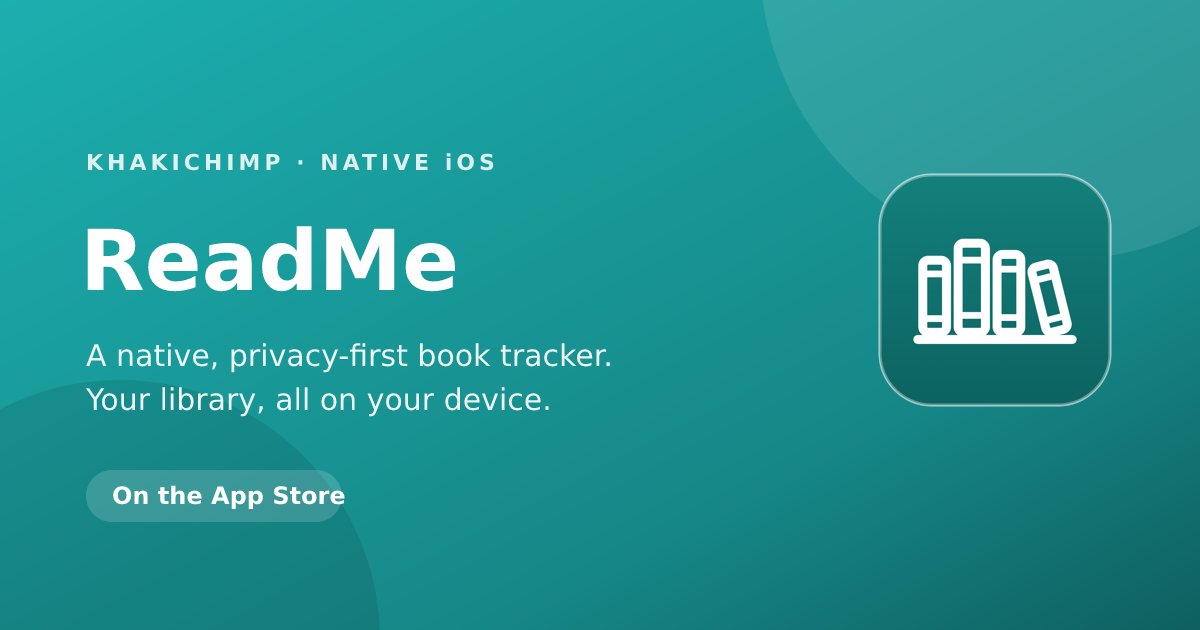
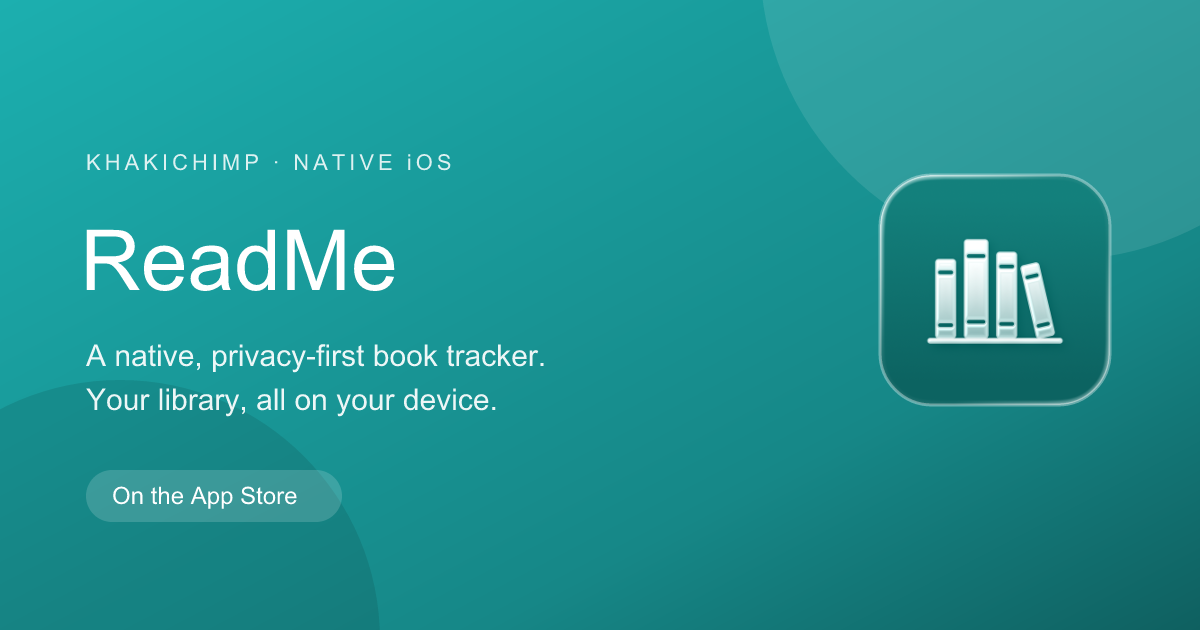
Refocus Khakichimp HQ on the apps and how they're shipped
The ReadMe icon (Khakichimp listing, ReadMe favicon and share card) now
matches the iOS 26 icon on the App Store.

The feed-the-chimp game is gone: no corner meter, no button in the
privacy card, no goal or level toasts. Poking the chimp in the hero
still throws bananas.

"Under the hood" described how this website was coded. It is replaced
by "Built and shipped solo", on designing, building and releasing each
app with AI coding tools, with current version numbers. The "Built the
Apple way" copy and the tech pills now match the three Swift repos.
The hero button reads "How I build them" and em dashes are hyphens.

diff --git a/khakichimp/index.html b/khakichimp/index.html
@@ -5,20 +5,20 @@
 <meta name="viewport" content="width=device-width, initial-scale=1.0">
 <meta name="theme-color" content="#0b1410">
 <title>Khakichimp HQ · Native, privacy-first iOS apps</title>
-<meta name="description" content="Khakichimp HQ — native, privacy-first iOS apps built by Josh Engels. Tasks - Uniflow, ReadMe, and Food in Five. No trackers, ever.">
+<meta name="description" content="Khakichimp HQ - native, privacy-first iOS apps built by Josh Engels. Tasks - Uniflow, ReadMe, and Food in Five. No trackers, ever.">
 <link rel="icon" href="/assets/favicon.svg" type="image/svg+xml">
 <link rel="apple-touch-icon" href="/assets/apple-touch-icon.png">
 <link rel="canonical" href="https://jengels34.github.io/khakichimp/">
 <meta property="og:type" content="website">
 <meta property="og:title" content="Khakichimp HQ · Native, privacy-first iOS apps">
-<meta property="og:description" content="Tasks - Uniflow, ReadMe, and Food in Five — native iOS apps with no trackers, ever. Built by Josh Engels.">
+<meta property="og:description" content="Tasks - Uniflow, ReadMe, and Food in Five - native iOS apps with no trackers, ever. Built by Josh Engels.">
 <meta property="og:url" content="https://jengels34.github.io/khakichimp/">
 <meta property="og:image" content="https://jengels34.github.io/assets/og-khakichimp.png">
 <meta property="og:image:width" content="1200">
 <meta property="og:image:height" content="630">
 <meta name="twitter:card" content="summary_large_image">
 <meta name="twitter:title" content="Khakichimp HQ · Native, privacy-first iOS apps">
-<meta name="twitter:description" content="Tasks - Uniflow, ReadMe, and Food in Five — native iOS apps with no trackers, ever. Built by Josh Engels.">
+<meta name="twitter:description" content="Tasks - Uniflow, ReadMe, and Food in Five - native iOS apps with no trackers, ever. Built by Josh Engels.">
 <meta name="twitter:image" content="https://jengels34.github.io/assets/og-khakichimp.png">
 <script>document.documentElement.classList.add('js')</script>
 <style>
@@ -84,7 +84,7 @@
     @keyframes aura{0%,100%{opacity:.55;transform:translate(-50%,-50%) scale(1)}50%{opacity:1;transform:translate(-50%,-50%) scale(1.07)}}
     .chimp-stage svg,.chimp-stage img{position:relative;z-index:1;width:100%;height:auto;display:block;filter:drop-shadow(0 22px 26px rgba(0,0,0,.45));will-change:transform}
     .chimp-hint{font-size:.8em;opacity:.6;letter-spacing:.04em;text-transform:uppercase;margin-top:-4px}
-    /* the mascot is injected and animated by JS — hide the stage and its hint for no-JS visitors */
+    /* the mascot is injected and animated by JS - hide the stage and its hint for no-JS visitors */
     .chimp-stage,.chimp-hint{display:none}
     html.js .chimp-stage{display:block}
     html.js .chimp-hint{display:block}
@@ -120,22 +120,6 @@
     .hero-apps img{width:58px;height:58px;border-radius:15px;display:block;
         box-shadow:0 10px 22px rgba(0,0,0,.4);border:1px solid rgba(243,251,243,.14)}
 
-    /* live banana counter chip */
-    .banana-meter{
-        position:fixed;right:16px;bottom:16px;z-index:40;display:flex;align-items:center;gap:8px;
-        background:rgba(11,20,16,.82);backdrop-filter:blur(8px);border:1px solid rgba(166,242,74,.4);
-        color:var(--cream);padding:9px 14px;border-radius:999px;font-weight:700;font-size:.9em;
-        box-shadow:0 10px 24px rgba(0,0,0,.34);cursor:pointer;transition:transform .2s;user-select:none;font:inherit;
-    }
-    .banana-meter:hover{transform:translateY(-2px)}
-    .banana-meter .lbl{opacity:.9;font-weight:600}
-    .banana-meter .track{width:52px;height:6px;border-radius:3px;background:rgba(243,251,243,.2);overflow:hidden;display:inline-block}
-    .banana-meter .fill{display:block;height:100%;width:0;background:linear-gradient(90deg,var(--banana),var(--lime));border-radius:3px;transition:width .25s}
-    .banana-meter .n{color:var(--banana);font-variant-numeric:tabular-nums}
-    .banana-toast{position:fixed;left:50%;top:20%;transform:translate(-50%,-10px);z-index:56;max-width:90vw;
-        background:rgba(11,20,16,.94);border:1px solid rgba(166,242,74,.45);color:var(--cream);
-        padding:14px 22px;border-radius:14px;font-weight:700;text-align:center;
-        box-shadow:0 16px 40px rgba(0,0,0,.4);opacity:0;pointer-events:none}
     .combo-pop{position:fixed;z-index:55;transform:translate(-50%,-50%);pointer-events:none;
         font-weight:800;color:var(--banana);text-shadow:0 2px 10px rgba(0,0,0,.4);white-space:nowrap}
 
@@ -163,7 +147,7 @@
         transform-style:preserve-3d;transition:border-color .25s,box-shadow .25s,transform .25s;
         position:relative;overflow:hidden;min-height:288px;
     }
-    /* per-app corner glow — replaces the generic top stripe */
+    /* per-app corner glow - replaces the generic top stripe */
     .app-card::after{
         content:"";position:absolute;width:260px;height:260px;border-radius:50%;
         top:-110px;right:-80px;filter:blur(10px);opacity:.5;z-index:0;transition:opacity .25s,transform .25s;
@@ -207,11 +191,6 @@
     .philosophy .big{font-size:2.4em}
     .philosophy h3{margin:10px 0 6px;font-size:1.3em}
     .philosophy p{opacity:.84;font-size:.98em}
-    .feed{margin-top:22px}
-    .feed-btn{display:inline-flex;align-items:center;gap:8px;cursor:pointer;font-weight:700;font-size:.95em;
-        background:linear-gradient(120deg,var(--banana),var(--lime));color:var(--ink);border:none;padding:12px 20px;border-radius:999px;
-        box-shadow:0 12px 26px rgba(255,210,63,.3);transition:transform .15s}
-    .feed-btn:active{transform:scale(.95)}
     .craft{grid-column:1/-1;background:linear-gradient(160deg,rgba(168,120,255,.14),rgba(255,210,63,.06))}
     .craft .src{display:inline-block;margin-top:14px;font-weight:700;color:var(--lime);text-decoration:none}
     .craft .src:hover{text-decoration:underline}
@@ -257,14 +236,14 @@
         <div class="chimp-stage" id="chimpStage" title="Give him a poke" role="button" tabindex="0" aria-label="Poke the chimp to throw bananas">
             <div id="chimp" class="chimp-img" data-chimp aria-hidden="true"></div>
         </div>
-        <div class="chimp-hint">↑ poke me to feed the chimp</div>
+        <div class="chimp-hint">↑ give him a poke</div>
 
         <span class="eyebrow">Native · Privacy-first · iOS</span>
         <h1>Khaki<span class="pants">chimp</span> HQ</h1>
         <p class="tag">Building iOS apps that are <span class="rot" id="rotator">native</span>.</p>
         <div class="cta-row">
             <a class="cta" id="ctaApps" href="#apps">See the apps ↓</a>
-            <a class="cta alt" href="#stack">How they're built</a>
+            <a class="cta alt" href="#stack">How I build them</a>
         </div>
         <div class="hero-apps" aria-label="The apps">
             <a href="/tasks-uniflow/" title="Tasks - Uniflow"><img src="/assets/icons/tasks-uniflow.png" alt="Tasks - Uniflow app icon" width="58" height="58"></a>
@@ -288,22 +267,22 @@
             <a class="app-card tasks reveal" href="/tasks-uniflow/" data-tilt>
                 <div class="app-icon"><img src="/assets/icons/tasks-uniflow.png" alt="Tasks - Uniflow app icon" width="52" height="52"></div>
                 <h3>Tasks - Uniflow</h3>
-                <p class="desc">One task manager that unifies local tasks, Notion, and Apple Reminders — synced via CloudKit, secured in Keychain.</p>
-                <div class="pills"><span>SwiftUI</span><span>CloudKit</span><span>Notion API</span><span>Keychain</span></div>
+                <p class="desc">One task manager that unifies local tasks, Notion, and Apple Reminders - synced via CloudKit, secured in Keychain.</p>
+                <div class="pills"><span>SwiftUI</span><span>SwiftData</span><span>CloudKit</span><span>Notion API</span><span>Keychain</span></div>
                 <div class="foot"><span class="badge live">On the App Store</span><span class="go">Open →</span></div>
             </a>
             <a class="app-card readme reveal" href="/readme/" data-tilt>
                 <div class="app-icon"><img src="/assets/icons/readme.png" alt="ReadMe app icon" width="52" height="52"></div>
                 <h3>ReadMe</h3>
-                <p class="desc">A native, privacy-first book tracker — manage your library, log reading sessions, and watch your progress grow. All on-device, with optional iCloud sync.</p>
+                <p class="desc">A native, privacy-first book tracker - manage your library, log reading sessions, and watch your progress grow. All on-device, with optional iCloud sync.</p>
                 <div class="pills"><span>SwiftUI</span><span>SwiftData</span><span>CloudKit</span><span>On-device</span></div>
                 <div class="foot"><span class="badge live">On the App Store</span><span class="go">Open →</span></div>
             </a>
             <a class="app-card food reveal" href="/food-in-five/" data-tilt>
                 <div class="app-icon"><img src="/assets/icons/food-in-five.png" alt="Food in Five app icon" width="52" height="52"></div>
                 <h3>Food in Five</h3>
-                <p class="desc">Location-based restaurant discovery powered by Google Places, MapKit &amp; SwiftData — smart filters and favorites, all on-device.</p>
-                <div class="pills"><span>MapKit</span><span>Google Places</span><span>SwiftData</span><span>No backend</span></div>
+                <p class="desc">Location-based restaurant discovery powered by Google Places, MapKit &amp; SwiftData - smart filters and favorites, all on-device.</p>
+                <div class="pills"><span>SwiftUI</span><span>SwiftData</span><span>MapKit</span><span>Google Places</span></div>
                 <div class="foot"><span class="badge live">On the App Store</span><span class="go">Open →</span></div>
             </a>
         </div>
@@ -315,21 +294,18 @@
     <div class="wrap">
         <div class="reveal">
             <h2>Built the Apple way</h2>
-            <p>Every Khakichimp app is fully native and declarative — SwiftUI front to back, with data that stays on your device unless you explicitly sync it. No cross-platform shortcuts, no compromise on feel.</p>
+            <p>All three apps are written in Swift with SwiftUI, and keep your data on your iPhone with SwiftData. ReadMe and Tasks - Uniflow can sync through iCloud if you turn it on. Each app has Home Screen widgets and uses Apple's own tools where it can: MapKit in Food in Five, Apple Reminders in Tasks - Uniflow, and the camera barcode scanner in ReadMe. No cross-platform shortcuts.</p>
         </div>
         <div class="philosophy reveal">
             <div class="big">🔒</div>
-            <h3>Privacy isn't a feature — it's the default</h3>
-            <p>No analytics SDKs, no ad networks, no hidden data collection. Your data lives on your device (and your iCloud, if you choose). That's the whole point.</p>
-            <div class="feed">
-                <button class="feed-btn" id="feedBtn" type="button" hidden>🍌 Feed the chimp</button>
-            </div>
+            <h3>Privacy isn't a feature - it's the default</h3>
+            <p>No analytics trackers, no ad networks, no hidden data collection. Your data lives on your device (and your iCloud, if you choose). That's the whole point.</p>
         </div>
         <div class="philosophy craft reveal">
             <div class="big">🛠</div>
-            <h3>Under the hood — this site is part of the portfolio</h3>
-            <p>Hand-built with zero frameworks: one inline stylesheet per page, vanilla JavaScript, and self-hosted GSAP. The chimp is a detailed vector illustration — optimized from 6&nbsp;MB down to ~2&nbsp;MB with SVGO — brought to life with GSAP: idle breathing, a lean toward your cursor, and a poke-to-feed banana game. CI lints every page and walks every internal link with a dependency-free checker, and the social share cards are rendered from SVG at build time.</p>
-            <a class="src" href="https://github.com/jengels34/jengels34.github.io" target="_blank" rel="noopener">View source on GitHub ↗</a>
+            <h3>Built and shipped solo</h3>
+            <p>I design, build, test, and release each app myself, using AI coding tools to move faster. That covers everything from the first idea to App Store review, privacy policies, in-app feedback, and crash reporting. All three are still being updated: ReadMe is on version 3 and Food in Five on version 2.</p>
+            <a class="src" href="https://github.com/jengels34/jengels34.github.io" target="_blank" rel="noopener">This site's source on GitHub ↗</a>
         </div>
     </div>
 </section>
@@ -347,13 +323,6 @@
     <div class="copy">© <span id="yr"></span> Khakichimp · Built by Josh Engels</div>
 </footer>
 
-<!-- feed-the-chimp goal meter (revealed by JS — it's inert without it) -->
-<button class="banana-meter" id="bananaMeter" type="button" hidden title="Feed the chimp a banana" aria-label="Feed the chimp a banana">
-    🍌 <span class="lbl">Feed the chimp</span>
-    <span class="track"><span class="fill" id="bananaFill"></span></span>
-    <span class="n"><span id="bananaN">0</span>/<span id="bananaGoal">12</span></span>
-</button>
-
 <!-- ============ LIBRARIES ============ -->
 <script src="/assets/vendor/gsap.min.js"></script>
 <script src="/assets/vendor/ScrollTrigger.min.js"></script>
@@ -366,7 +335,6 @@ document.getElementById('yr').textContent = new Date().getFullYear();
 const chimp = document.getElementById('chimp');
 function chimpRig(){ return chimp && chimp._chimp; }
 function chimpReact(c){ const r = chimpRig(); if(r) r.react(c); }
-function chimpCelebrate(){ const r = chimpRig(); if(r) r.celebrate(); }
 
 /* Assemble email links in JS so the address isn't in the static HTML (anti-scrape) */
 document.querySelectorAll('a.contact[data-u]').forEach(a=>{
@@ -383,66 +351,19 @@ function setProgress(){
 }
 window.addEventListener('scroll', setProgress, {passive:true}); setProgress();
 
-/* ---------- Feed-the-chimp banana game ---------- */
+/* ---------- Poke the chimp: a banana spray per poke ---------- */
 let bananaShape = null;
 if(typeof confetti === 'function' && confetti.shapeFromText){
     try{ bananaShape = confetti.shapeFromText({text:'🍌', scalar:2.2}); }catch(e){}
 }
-const fillEl = document.getElementById('bananaFill');
-const fedEl  = document.getElementById('bananaN');
-const goalEl = document.getElementById('bananaGoal');
-const meterEl = document.getElementById('bananaMeter');
-const feedBtn = document.getElementById('feedBtn');
-/* the game controls ship hidden — they're inert without JS */
-meterEl.hidden = false;
-feedBtn.hidden = false;
-let fed = 0, goal = 12, level = 1, celebrating = false;
-goalEl.textContent = goal;
-
-/* cosmetic banana spray (does NOT touch the goal) */
 function spray(origin, count){
-    if(typeof confetti !== 'function') return;
+    if(typeof confetti !== 'function' || reduceMotion) return;
     confetti({
         particleCount:count, spread:72, startVelocity:42, origin,
         shapes: bananaShape?[bananaShape]:undefined,
         colors: bananaShape?undefined:['#ffd23f','#a6f24a','#16d6c4'],
         scalar: bananaShape?1.7:1.1, ticks:220
     });
-}
-function updateMeter(){
-    fedEl.textContent = fed;
-    fillEl.style.width = Math.min(100, fed/goal*100) + '%';
-    if(window.gsap && !reduceMotion) gsap.fromTo(meterEl,{scale:1},{scale:1.08,duration:.1,yoyo:true,repeat:1});
-}
-function toast(msg){
-    const t = document.createElement('div');
-    t.className = 'banana-toast'; t.textContent = msg;
-    document.body.appendChild(t);
-    if(window.gsap && !reduceMotion){
-        gsap.fromTo(t,{opacity:0,y:-10},{opacity:1,y:0,duration:.3});
-        gsap.to(t,{opacity:0,y:-10,duration:.4,delay:2.4,onComplete:()=>t.remove()});
-    } else { t.style.opacity=1; setTimeout(()=>t.remove(),2600); }
-}
-function celebrate(){
-    celebrating = true;
-    if(typeof confetti === 'function' && !reduceMotion){
-        const end = Date.now()+800;
-        (function frame(){ spray({x:Math.random(), y:-0.1}, 7); if(Date.now()<end) requestAnimationFrame(frame); })();
-    } else spray({x:0.5,y:0.2}, 30);
-    chimpCelebrate();
-    toast(level===1
-        ? "🎉 You filled the chimp! He's stuffed — now go meet the apps ↓"
-        : "🍌 Level " + (level+1) + " — the chimp's hungry again!");
-    level++; goal += 8;
-    setTimeout(()=>{ fed=0; goalEl.textContent=goal; updateMeter(); celebrating=false; }, 1500);
-}
-/* feeding advances the goal; combo (rapid feeding) feeds more per tap */
-function feed(amount, origin){
-    if(celebrating) return;
-    fed += amount;
-    spray(origin, 6 + amount*4);
-    if(fed >= goal){ fed = goal; updateMeter(); celebrate(); }
-    else updateMeter();
 }
 
 /* ---------- Poke the chimp (head/eye tracking is handled by the rig) ---------- */
@@ -461,26 +382,15 @@ function showCombo(n){
     gsap.fromTo(el,{y:0,opacity:1,scale:.7},{y:-70,opacity:0,scale:1.25,duration:.9,ease:'power2.out',onComplete:()=>el.remove()});
 }
 function poke(){
-    if(celebrating) return;
     combo++; clearTimeout(comboTimer); comboTimer = setTimeout(()=>combo=0, 1400);
-    const amount = 1 + Math.min(combo-1, 4);   // 1–5 per poke; rapid taps feed faster
+    const amount = 1 + Math.min(combo-1, 4);   // rapid pokes throw more bananas
     const rect = stage.getBoundingClientRect();
-    feed(amount, {x:(rect.left+rect.width/2)/innerWidth, y:(rect.top+rect.height*0.35)/innerHeight});
+    spray({x:(rect.left+rect.width/2)/innerWidth, y:(rect.top+rect.height*0.35)/innerHeight}, 6 + amount*4);
     if(combo>=2) showCombo(combo);
     chimpReact(combo);
 }
 stage.addEventListener('click', poke);
 stage.addEventListener('keydown', e=>{ if(e.key==='Enter'||e.key===' '){e.preventDefault();poke();}});
-
-/* "Feed the chimp" button feeds a chunk; the corner meter feeds one */
-feedBtn.addEventListener('click', e=>{
-    const r=e.currentTarget.getBoundingClientRect();
-    feed(3, {x:(r.left+r.width/2)/innerWidth, y:(r.top+r.height/2)/innerHeight});
-});
-meterEl.addEventListener('click', ()=>{
-    const r=meterEl.getBoundingClientRect();
-    feed(1, {x:(r.left+r.width/2)/innerWidth, y:(r.top+r.height/2)/innerHeight});
-});
 
 /* idle bob */
 if(!reduceMotion && window.gsap){
